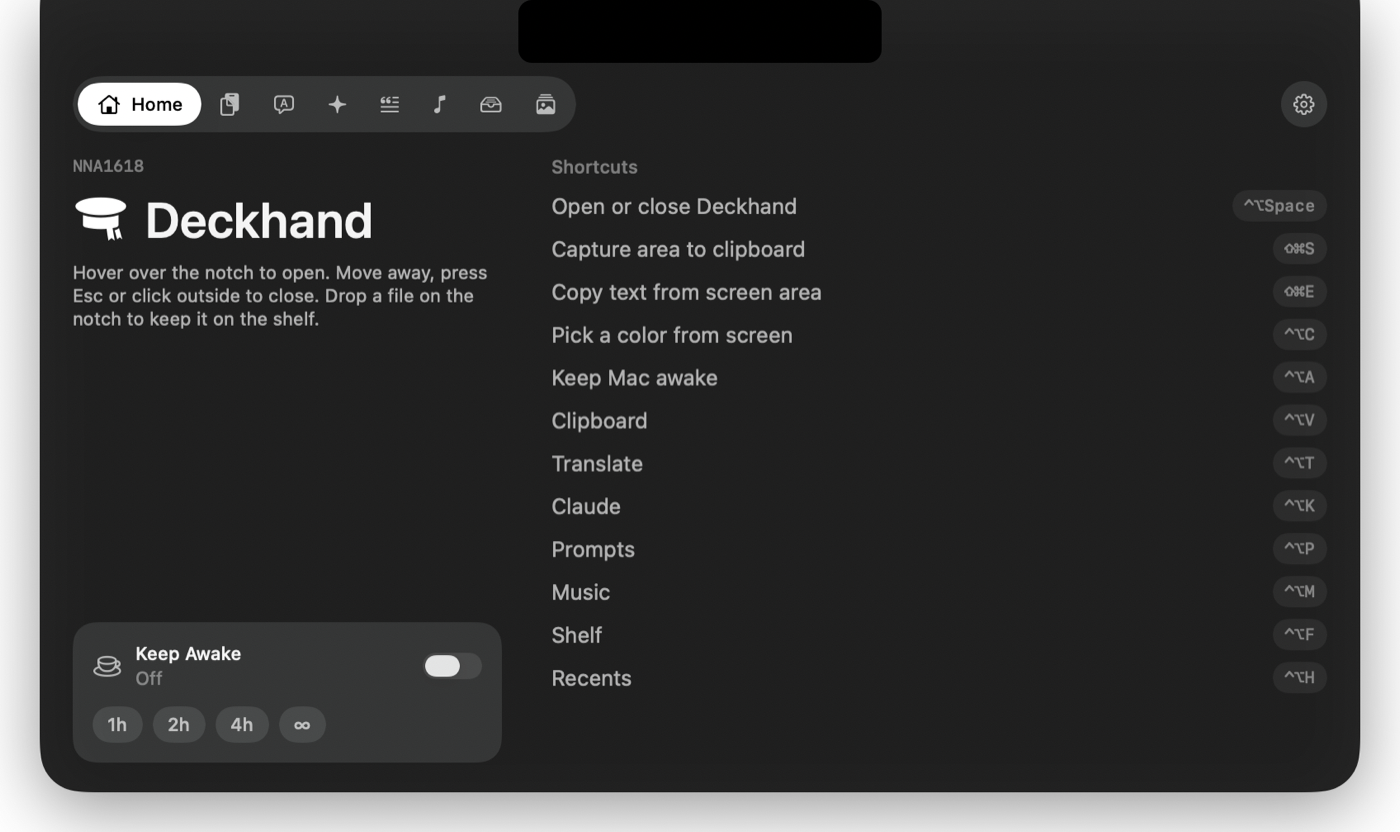
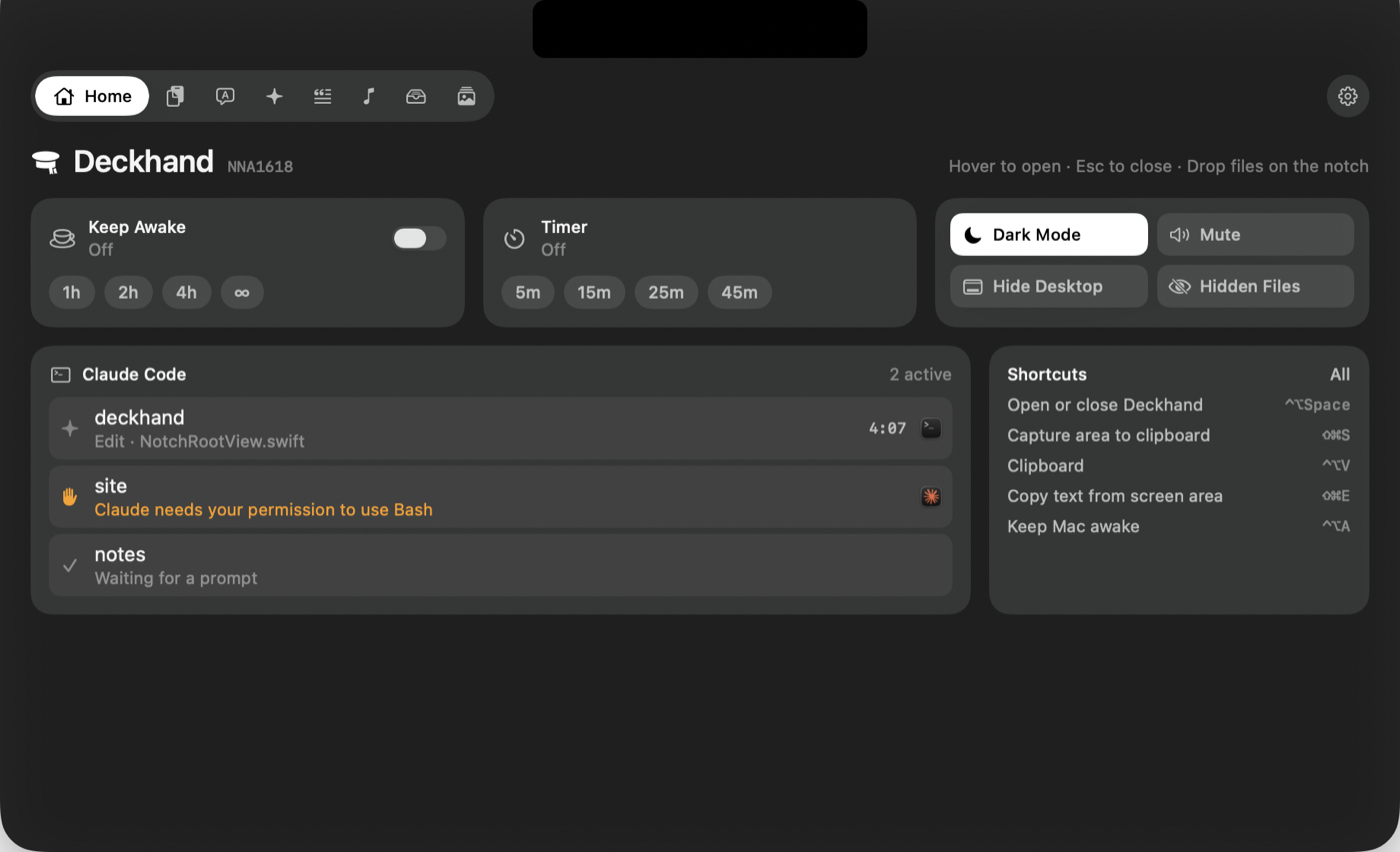
Document Claude Code status, timer and toggles; bump to 0.4.0

diff --git a/README.ru.md b/README.ru.md
@@ -37,8 +37,17 @@ Deckhand живёт в чёлке. Наведите на неё курсор, и
 
 <p align="center"><img src="docs/images/editor.png" width="760" alt="Редактор картинок"></p>
 
+**Claude Code в чёлке**
+- Все сессии Claude Code перед глазами: над каким проектом идёт работа, какой инструмент запущен прямо сейчас и сколько уже идёт задача. Работает для Claude Code в Терминале, редакторах и приложении Claude.
+- Пока Claude работает, у закрытой чёлки видны искра и время. Когда нужно разрешение или ответ, чёлка показывает поднятую руку и звучит сигнал. Когда задача готова, приходит короткое уведомление.
+- Клик по сессии выводит её окно на передний план. Подключается одной кнопкой в Настройки → Claude: Deckhand добавляет небольшой хук в `~/.claude/settings.json` и сохраняет резервную копию.
+
+<p align="center"><img src="docs/images/claude-code.png" width="500" alt="Claude Code работает, видно у чёлки"></p>
+
 **Удобства для Mac**
 - **Не спать.** Не даёт Mac уснуть на час, два, четыре или пока не выключите, как Amphetamine. Включается через `⌃⌥A`, на вкладке «Главная» или в строке меню. Пока режим включён, у закрытой чёлки видны чашка и оставшееся время.
+- **Таймер.** 5, 15, 25 или 45 минут на вкладке «Главная», с паузой и кнопкой +1 минута. Оставшееся время видно у закрытой чёлки, в конце звучит сигнал.
+- **Быстрые тумблеры.** Тёмная тема, выключение звука, скрытие значков на рабочем столе (удобно перед показом экрана) и скрытые файлы в Finder, каждый в один клик.
 - **Батарея.** При подключении зарядки чёлка показывает заряд. И ещё раз, когда батарея падает до 20% и 10%.
 - **Оформление.** Прозрачное или тонированное стекло Liquid Glass либо плотная панель, ползунок тонировки и три размера панели. Открытие при наведении можно задержать или выключить, а в полноэкранных приложениях панель не открывается.
 
@@ -46,7 +55,7 @@ Deckhand живёт в чёлке. Наведите на неё курсор, и
 
 **Остальное**
 - **Перевод.** На устройстве, через Translation от Apple. Сам определяет язык и направление.
-- **Claude.** Пресеты для текста в один клик (переписать, сократить, исправить ошибки, объяснить, ревью кода, улучшить промпт) и быстрый чат. Работает с вашим ключом Anthropic API, ключ хранится в связке ключей.
+- **Claude.** Действия с текстом в один клик: переписать, сократить, исправить ошибки, объяснить, ревью кода, улучшить промпт, перевести на английский. Работают через Claude Code по вашей подписке Claude, ключ API не нужен. Если удобнее, можно по-прежнему указать ключ API, он хранится в связке ключей. Чат открывается в приложении Claude.
 - **Промпты.** Библиотека промптов по категориям с поиском. Клик копирует.
 - **Музыка.** Воспроизведение и переключение для любого плеера. Пока играет музыка, название трека бежит вокруг закрытой чёлки.
 - **Полка.** Перетащите файлы на чёлку, чтобы держать их под рукой, потом вытаскивайте куда угодно или отправляйте по AirDrop.
@@ -55,7 +64,7 @@ Deckhand живёт в чёлке. Наведите на неё курсор, и
 
 <p align="center"><img src="docs/images/now-playing.png" width="500" alt="Трек вокруг чёлки"></p>
 
-Английский и русский. Язык приложения такой же, как в системе.
+Английский и русский. Язык выбирается в Настройки → Основные, или как в macOS.
 
 ## Требования
 
@@ -94,13 +103,13 @@ Deckhand живёт в чёлке. Наведите на неё курсор, и
 
 ## Приватность
 
-Всё остаётся на вашем Mac. История буфера лежит в `~/Library/Application Support/Deckhand`. В сеть Deckhand выходит, только когда вы пользуетесь Claude, и только к API Anthropic с вашим ключом.
+Всё остаётся на вашем Mac. История буфера лежит в `~/Library/Application Support/Deckhand`. Сам Deckhand в сеть не выходит. Действия Claude идут через ваш локальный Claude Code или к API Anthropic, если вы выбрали ключ API. Хук Claude Code только записывает файлы событий в эту папку. Deckhand берёт из них имя папки проекта и название инструмента, а промпты и код никогда не сохраняет.
 
 Какие разрешения может попросить macOS:
 
 - **Запись экрана**, для скриншотов и распознавания текста.
 - **Универсальный доступ**, только чтобы вставлять в другое приложение и понимать, что приложение перед вами во весь экран.
-- **Автоматизация**, чтобы узнать текущий трек в Музыке, Spotify или браузере.
+- **Автоматизация**, чтобы узнать текущий трек в Музыке, Spotify или браузере, и для тумблера тёмной темы.
 
 ## Сборка из исходников
 

diff --git a/README.md b/README.md
@@ -37,8 +37,17 @@ It is a native macOS app written in Swift and SwiftUI. No Electron, no account, 
 
 <p align="center"><img src="docs/images/editor.png" width="760" alt="The image editor"></p>
 
+**Claude Code in the notch**
+- See every Claude Code session at a glance: which project it works on, the tool it runs right now and for how long. Works for Claude Code in Terminal, editors and the Claude app.
+- While Claude works, a sparkle and the time spent show around the closed notch. When it needs a permission or an answer, the notch shows a raised hand and plays a sound. When a task is done, you get a short notice.
+- Click a session to bring its window to the front. Connect it in Settings → Claude with one click: Deckhand adds a small hook to `~/.claude/settings.json` and keeps a backup.
+
+<p align="center"><img src="docs/images/claude-code.png" width="500" alt="Claude Code working, shown around the notch"></p>
+
 **Mac conveniences**
 - **Keep Awake.** Stops the Mac from sleeping for an hour, two, four or until you turn it off, like Amphetamine. Toggle it with `⌃⌥A`, from the Home tab or the menu bar. A cup and the time left show around the closed notch.
+- **Timer.** 5, 15, 25 or 45 minutes from the Home tab, with pause and +1 minute. The time left shows around the closed notch, and a chime plays at the end.
+- **Quick toggles.** Dark Mode, Mute, Hide Desktop icons (handy before a screen share) and Hidden Files in Finder, one click each.
 - **Battery.** Plugging in the charger shows the level in the notch, and so does the battery dropping to 20% and 10%.
 - **Appearance.** Transparent or tinted Liquid Glass, or a solid panel, with a tint slider and three panel sizes. Hovering can be delayed or turned off, and the panel stays closed while an app is in full screen.
 
@@ -46,7 +55,7 @@ It is a native macOS app written in Swift and SwiftUI. No Electron, no account, 
 
 **Everything else**
 - **Translate.** On-device translation through Apple's Translation framework. Detects the language and picks the direction.
-- **Claude.** One-click presets for text (rewrite, shorten, fix grammar, explain, review code, improve a prompt) and a quick chat. Uses your own Anthropic API key, stored in the Keychain.
+- **Claude.** One-click actions for text: rewrite, shorten, fix grammar, explain, review code, improve a prompt, translate to English. They run through Claude Code with your Claude plan, so no API key is needed. An API key in the Keychain still works if you prefer it. Chat opens the Claude app.
 - **Prompts.** A searchable library of prompts by category. Click to copy.
 - **Music.** Play, pause and skip for any player. While music plays, the track scrolls around the closed notch.
 - **Shelf.** Drop files on the notch to keep them at hand, then drag them out anywhere or send them with AirDrop.
@@ -55,7 +64,7 @@ It is a native macOS app written in Swift and SwiftUI. No Electron, no account, 
 
 <p align="center"><img src="docs/images/now-playing.png" width="500" alt="The playing track around the notch"></p>
 
-English and Russian. The app follows your system language.
+English and Russian. Pick the language in Settings → General, or let it follow macOS.
 
 ## Requirements
 
@@ -96,13 +105,13 @@ Every shortcut can be changed in Settings → Shortcuts: click it and press new 
 
 ## Privacy
 
-Everything stays on your Mac. The clipboard history lives in `~/Library/Application Support/Deckhand`. Deckhand talks to the network only when you use Claude, and then only to the Anthropic API with your key.
+Everything stays on your Mac. The clipboard history lives in `~/Library/Application Support/Deckhand`. Deckhand itself never talks to the network. Claude actions go through your local Claude Code, or to the Anthropic API if you chose an API key. The Claude Code hook only writes event files to that folder; Deckhand reads the project folder name and the tool name and never stores prompts or code.
 
 Permissions macOS may ask for:
 
 - **Screen Recording**, for screenshots and text capture.
 - **Accessibility**, only to paste into another app and to tell when the app in front is in full screen.
-- **Automation**, to read the current track from Music, Spotify or a browser.
+- **Automation**, to read the current track from Music, Spotify or a browser, and for the Dark Mode toggle.
 
 ## Build from source
 
